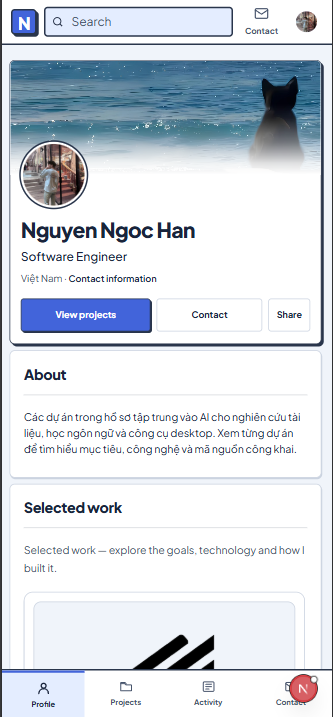
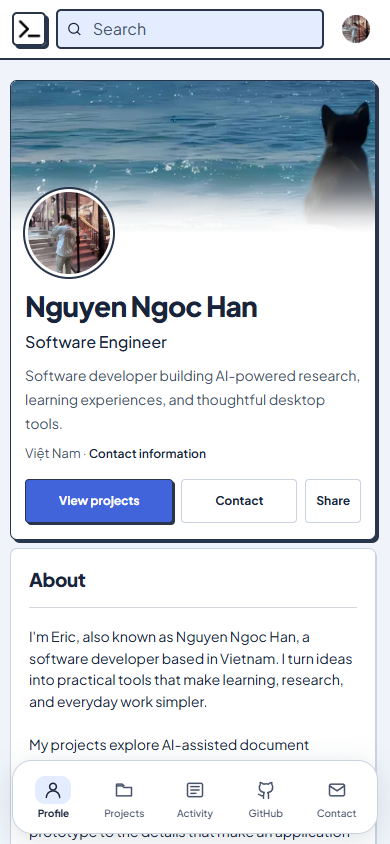
Polish mobile activity tabs and refresh portfolio screenshots

diff --git a/app/globals.css b/app/globals.css
@@ -259,7 +259,8 @@
   border-radius: 24px;
   box-shadow: none;
 }
-.tabs button.active {
+.tabs button.active,
+.tabs button.active:hover {
   background: var(--accent);
   color: var(--primary-ink);
 }
@@ -2488,6 +2489,9 @@ button.gh-day:hover {
   opacity: 0.75;
   font-size: 11px;
 }
+.tab-label-short {
+  display: none;
+}
 .cv-actions {
   display: flex;
   align-items: center;
@@ -4170,6 +4174,28 @@ html {
     white-space: nowrap;
     font-size: 12px;
     scroll-snap-align: start;
+  }
+  .main > .card > .tabs {
+    display: grid;
+    grid-template-columns: 0.9fr 1.05fr 1.1fr 0.95fr 1.1fr;
+    gap: 3px;
+    overflow: visible;
+  }
+  .main > .card > .tabs button {
+    min-width: 0;
+    padding: 8px 2px;
+    font-size: clamp(10px, 2.65vw, 12px);
+    letter-spacing: -0.2px;
+  }
+  .main > .card > .tabs .tab-count {
+    margin-left: 1px;
+    font-size: inherit;
+  }
+  .main > .card > .tabs .tab-label-full {
+    display: none;
+  }
+  .main > .card > .tabs .tab-label-short {
+    display: inline;
   }
   .projects-heading {
     flex-wrap: nowrap;

diff --git a/components/profile-site.tsx b/components/profile-site.tsx
@@ -356,9 +356,17 @@ function Site({
               key={value}
               className={filter === value ? 'active' : ''}
               aria-pressed={filter === value}
+              title={label}
               onClick={() => setFilter(value)}
             >
-              {label}{' '}
+              {value === 'Cập nhật dự án' ? (
+                <>
+                  <span className="tab-label-full">{label}</span>
+                  <span className="tab-label-short">{t('Dự án', 'Projects')}</span>
+                </>
+              ) : (
+                label
+              )}{' '}
               <span className="tab-count">
                 {
                   source.filter((p) => publicationStatus(p) === status && postMatches(p, value))

diff --git a/README.md b/README.md
@@ -6,14 +6,21 @@ A personal portfolio and publishing platform built with **Next.js, React and Typ
 
 ![Desktop profile](docs/screenshots/profile-desktop.png)
 
+<p align="center">
+  <img src="docs/screenshots/projects-mobile.png" alt="Mobile projects with instant search and grid/list controls" width="280" />
+  <img src="docs/screenshots/activity-mobile.png" alt="Mobile activity feed with compact post filters" width="280" />
+</p>
+
+Screenshots from the live website. Public browsing is available without an account; editing and visitor details require administrator access.
+
 ## Features
 
-- **Profile and projects** — cover, avatar, introduction, skills, custom sections, project details and searchable content.
+- **Profile and projects** — cover, avatar, introduction, skills, custom sections and project details. Instant project search, collapsible filters and grid/list views keep mobile browsing compact.
 - **Publishing** — rich text or Markdown with Edit / Preview, scheduled posts, visibility controls, duplicate checks and recoverable trash.
 - **Administration** — inline editing, mobile full-screen forms, image framing and upload progress. Attach PDF, DOCX, TXT, Markdown and images with previews; uploads support up to 20 MiB (static SVG: 1 MiB). DOCX previews show text; download for original formatting. Text files use UTF-8.
 - **GitHub integration** — public repositories, contributions and activity; authenticated imports stay private until explicitly published.
 - **Analytics** — daily trends, country/device/browser breakdowns, filters and viewing duration. Visitor details are admin-only; the public counter exposes a total.
-- **Presentation** — English by default, Vietnamese translation, light/dark themes and responsive layouts. Background updates pause while editing or when the tab is hidden.
+- **Presentation** — English by default, Vietnamese translation, light/dark themes and responsive layouts. Persistent header and mobile navigation stay in place between pages. Compact activity filters and an optional mobile CV shortcut are included; background updates pause while editing or when the tab is hidden.
 
 Interface translations do not automatically translate authored posts or project descriptions. Analytics exclude signed-in administrators and recognized bots and deduplicate views per page within a 30-minute session.
 
